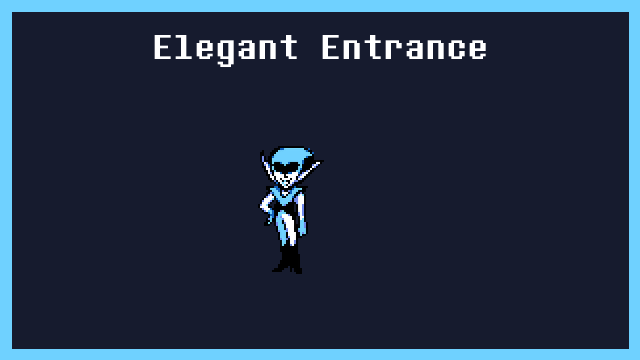
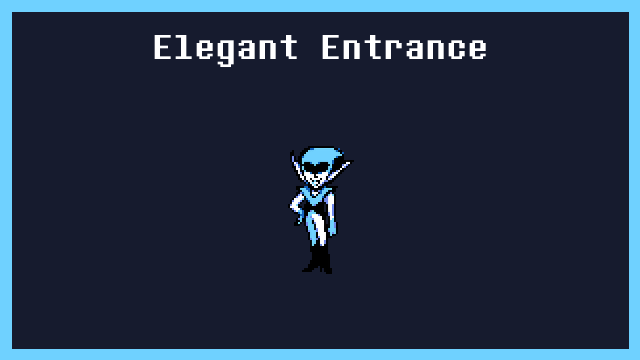
thumbnail images fix

Changed region(s): [[0.4062, 0.3972, 0.5625, 0.7639]]

diff --git a/data.js b/data.js
@@ -753,7 +753,7 @@ const aSimpleDiversion = new Song("A Simple Diversion",
 
 const berdlyBPM = 98;
 const berdly = new Song("Berdly",
-    [BERDLYAMOTIF],
+    [BERDLYAMOTIF, BERDLYBMOTIF],
     "2S8I1h-wNzc",
     [
         new MotifReference(BERDLYAMOTIF, 0, quickSec(berdlyBPM, 24)),
@@ -765,7 +765,7 @@ const berdly = new Song("Berdly",
 
 const smartRaceBPM = 150;
 const smartRace = new Song("Smart Race",
-    [BERDLYAMOTIF],
+    [BERDLYAMOTIF, BERDLYBMOTIF],
     "HZO3xw91eHw",
     [
         new MotifReference(QUEENAMOTIF, quickSec(smartRaceBPM, 4), quickSec(smartRaceBPM, 8)),
@@ -843,7 +843,7 @@ const elegantEntrance = new Song("Elegant Entrance",
 
 const bluebirdOfMisfortuneBPM = 120;
 const bluebirdOfMisfortune = new Song("Bluebird of Misfortune",
-    [BERDLYAMOTIF],
+    [BERDLYAMOTIF, BERDLYBMOTIF],
     "yud5H-vnbJw",
     [
         new MotifReference(BERDLYAMOTIF, 0, quickSec(bluebirdOfMisfortuneBPM, 49)),

diff --git a/make_static_site.py b/make_static_site.py
@@ -97,15 +97,11 @@ def gradient_diagonal(width, height, c1, c2):
     return img
 
 def generate_song_embed(song_obj, output_path):
-    name = song_obj.get("name", "")
-    motif_ids = song_obj.get("mainMotifs", [])
+    name = song_obj.get("name")
+    motifs = song_obj.get("mainMotifs")
 
-    first = motif_ids[0] if motif_ids else None
-    second = motif_ids[1] if len(motif_ids) > 1 else first
-
-    # If first and second are the same, treat as single motif
-    if first and second and first["id"] == second["id"]:
-        second = None
+    first = motifs[0] if len(motifs) > 0 else None
+    second = motifs[1] if len(motifs) > 1 else None
 
     embed = Image.new("RGBA", (EMBED_WIDTH, EMBED_HEIGHT), BACKGROUND_COLOR)
     draw = ImageDraw.Draw(embed)
@@ -163,12 +159,12 @@ def generate_song_embed(song_obj, output_path):
 
     # Center motif images under song name
     if images:
-        total_width = IMAGE_SIZE if len(images) == 1 else (IMAGE_SIZE * (len(images) + 1)) + PADDING * (len(images))
+        total_width = images[0].size[0] if len(images) == 1 else sum(img.size[0] for img in images) + PADDING * (len(images)) + IMAGE_SIZE * (len(images) - 1)
         x_start = (EMBED_WIDTH - total_width) // 2
         y_img = (((EMBED_HEIGHT - BORDER_THICKNESS) + y_text) // 2) - (IMAGE_SIZE // 2)
         for img in images:
             embed.alpha_composite(img, (x_start, y_img))
-            x_start += (IMAGE_SIZE + PADDING) * 2
+            x_start += (PADDING * 2) + img.size[0] + IMAGE_SIZE
 
     embed.save(output_path)
 
